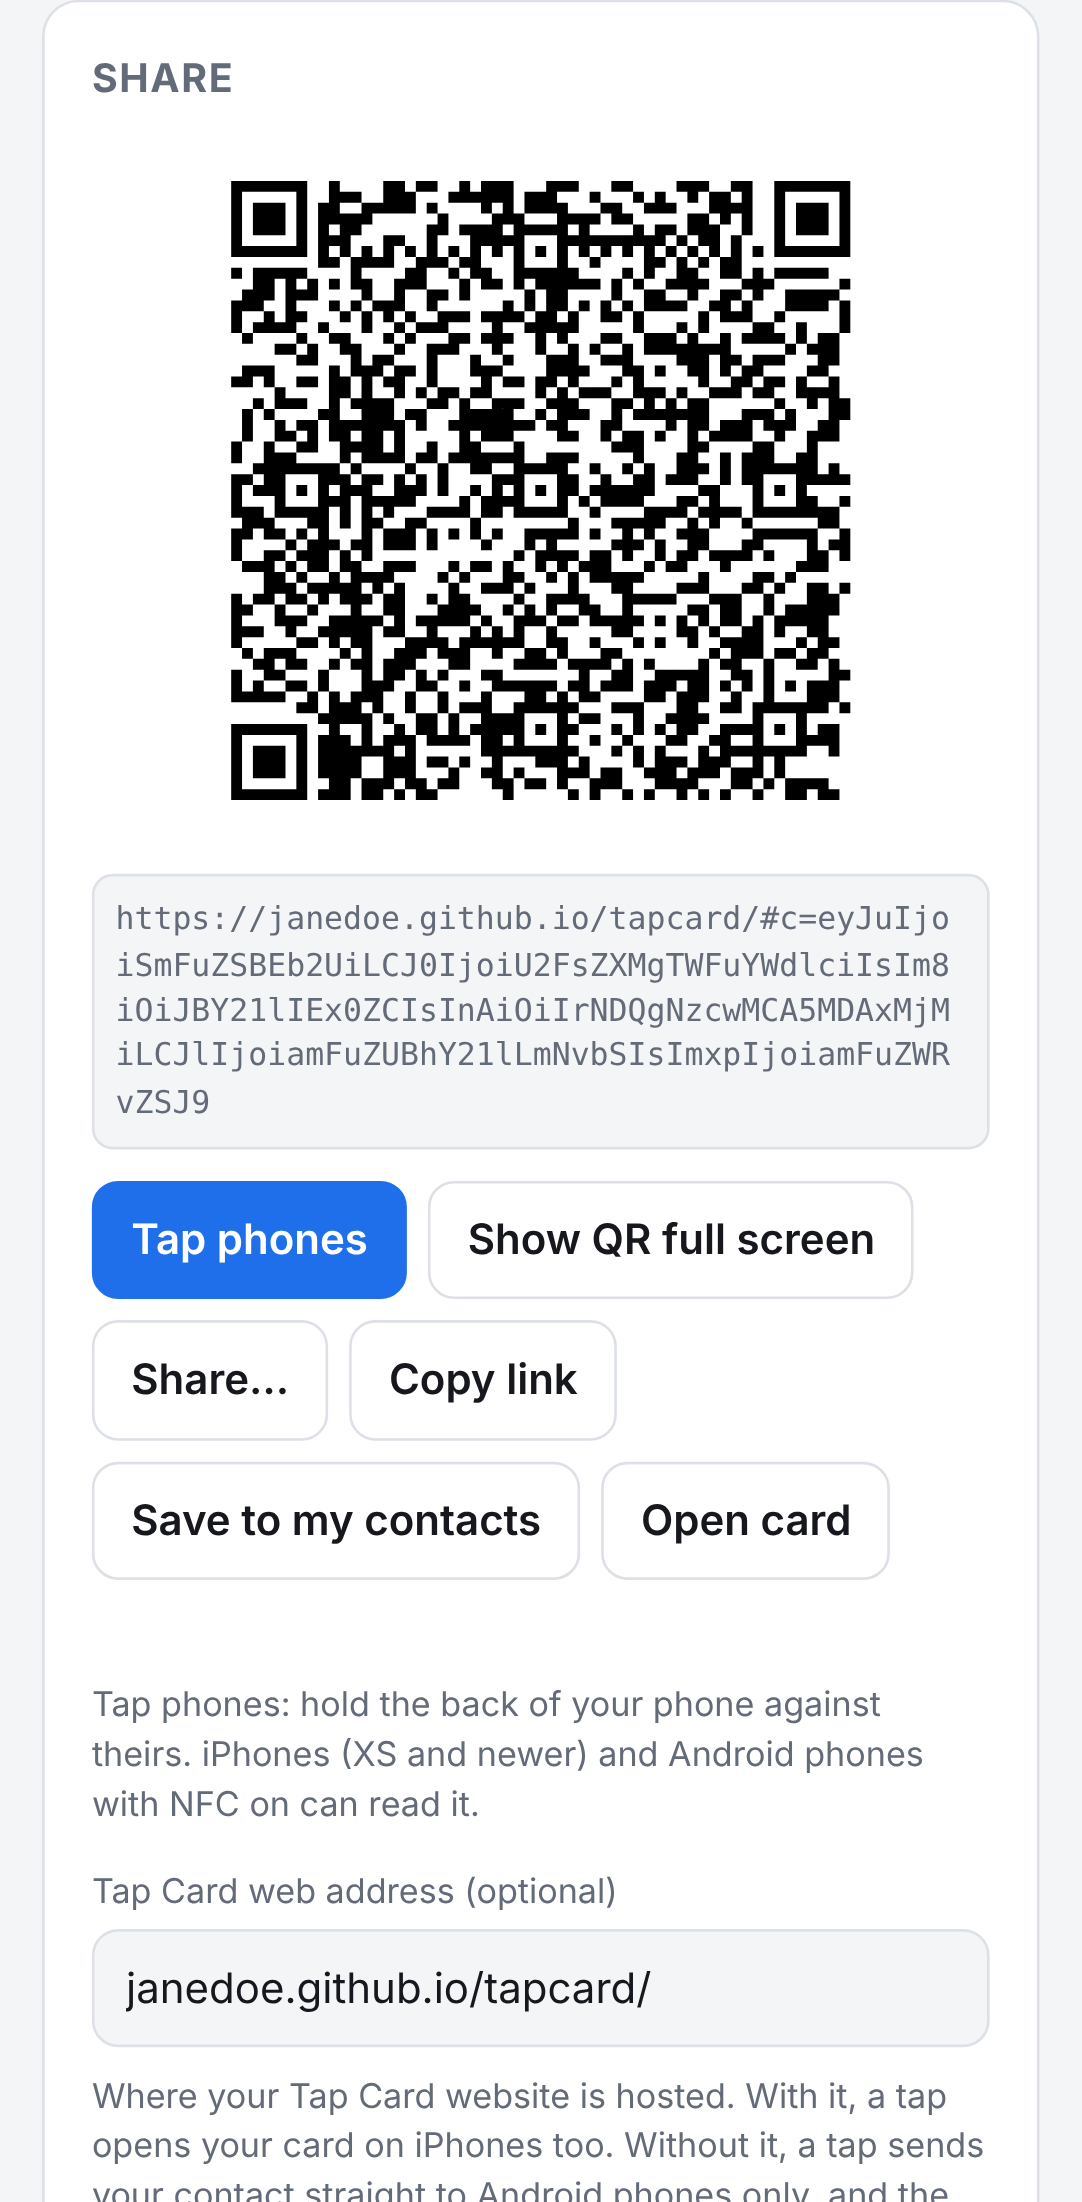
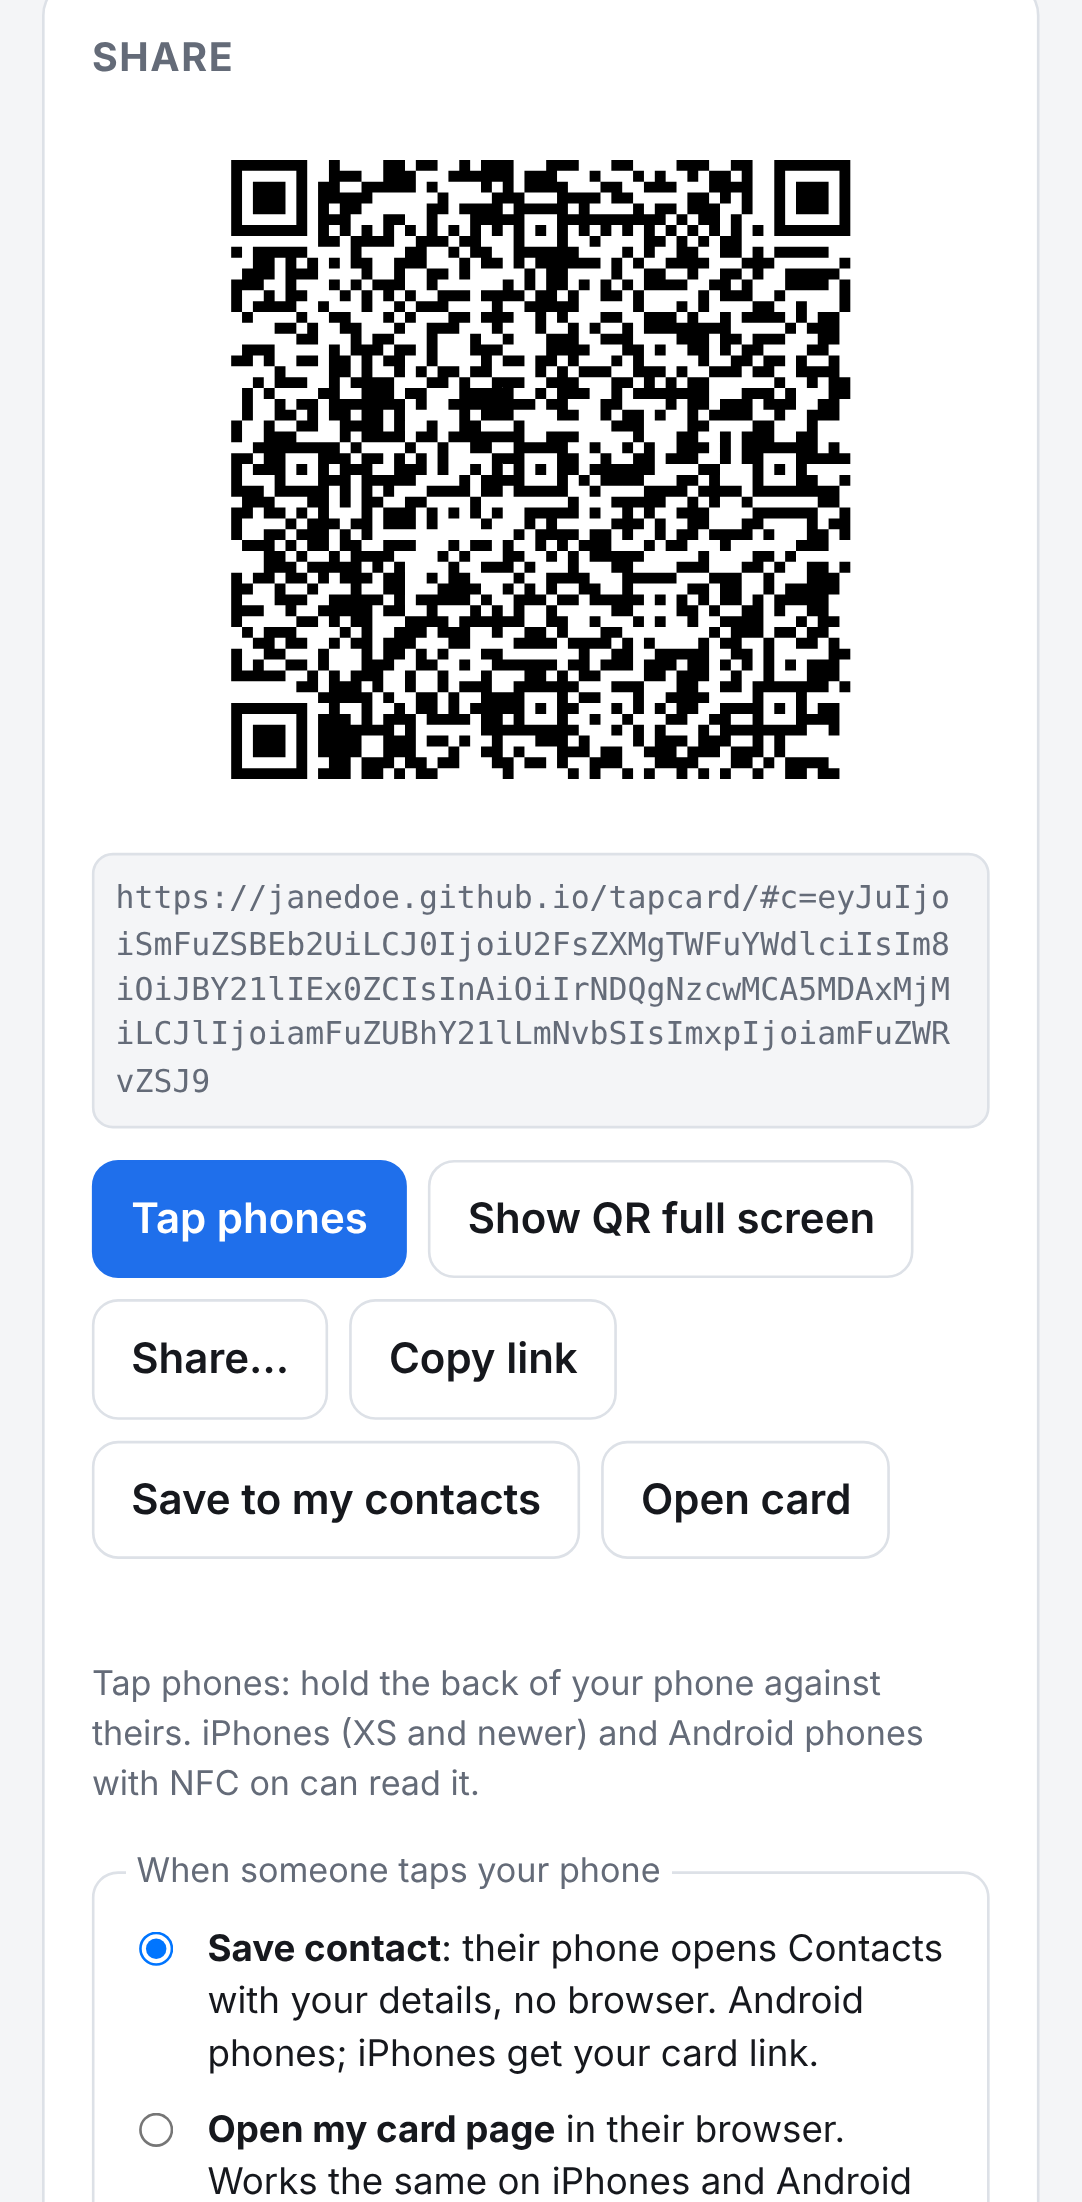
Tap sends the contact first, so Android shows "save contact" without a browser
- A tap now sends two NDEF records: the vCard first, then the card link.
  Android acts on the first record and opens Contacts; phones that only
  follow links can still use the second one. A switch in the app goes back
  to sending only the link.
- Replace the wrong Xiaomi "Autostart" hint: many Xiaomi phones can't send
  by tap because their own NFC chip answers instead of the app.
- Move the diagnostic counters behind "Details".
- Sign with a permanent key once the TAPCARD_KEY_PASSWORD secret is set, so
  updates install over the old version.

Claude-Session: https://claude.ai/code/session_01ChvCX1TJEbsDiLpY4wEDy7

diff --git a/web/index.html b/web/index.html
@@ -98,6 +98,12 @@
   @keyframes pulse { 50% { transform: scale(1.04); opacity: .8; } }
   @media (prefers-reduced-motion: reduce) { .show .tapart { animation: none; } }
   .show p { max-width: 34ch; }
+  .modes { border: 1px solid var(--line); border-radius: 10px; padding: 10px 12px 4px; margin: 14px 0 0; }
+  .modes legend { font-size: 13px; color: var(--muted); padding: 0 4px; }
+  .modes label { display: flex; gap: 10px; align-items: flex-start; font-size: 14px; color: var(--text); margin-bottom: 8px; }
+  .modes input { width: auto; margin-top: 3px; }
+  .show details { margin-top: 10px; font-size: 13px; color: #646b78; }
+  .show summary { cursor: pointer; }
   .show .ver { margin-top: 14px; font-size: 12px; }
   .show .checks { margin-top: 10px; font-size: 13px; }
   .show .tapstatus { margin-top: 18px; padding: 10px 14px; border-radius: 10px; background: #f4f5f7; color: #16181d; font-weight: 600; }
@@ -164,6 +170,11 @@
         </div>
         <div class="status" id="status" role="status"></div>
         <p class="note" id="nfcNote"></p>
+        <fieldset id="modeBox" class="modes" hidden>
+          <legend>When someone taps your phone</legend>
+          <label><input type="radio" name="tapmode" value="contact" checked> <span><b>Save contact</b>: their phone opens Contacts with your details, no browser. Android phones; iPhones get your card link.</span></label>
+          <label><input type="radio" name="tapmode" value="link"> <span><b>Open my card page</b> in their browser. Works the same on iPhones and Android phones.</span></label>
+        </fieldset>
         <div id="pubBox" hidden style="margin-top:14px">
           <label for="pub">Tap Card web address (optional)</label>
           <input id="pub" type="url" inputmode="url" placeholder="yourname.github.io/tapcard">
@@ -197,11 +208,8 @@
   <h3>Hold your phone back to back with theirs</h3>
   <p id="tapHint">Keep both screens on. Their phone shows your card in a second or two.</p>
   <p class="tapstatus" id="tapStatus" role="status"></p>
-  <p class="checks" id="tapChecks"></p>
-  <div id="autostartBox" hidden>
-    <p class="checks">Xiaomi phones: turn on <b>Autostart</b> for Tap Card, or taps can't reach it.</p>
-    <button type="button" id="autostartBtn">Open Autostart settings</button>
-  </div>
+  <p class="checks" id="xiaomiNote" hidden>Tapping not working? Many Xiaomi phones can't send by tap: their own NFC chip answers instead of Tap Card. They can still receive. To share from a Xiaomi, stick an NFC sticker on your case (use "Write to NFC tag" on the Tap Card website) or show your QR code.</p>
+  <details><summary>Details</summary><p class="checks" id="tapChecks"></p></details>
   <button type="button" id="tapClose">Done</button>
   <p class="ver" id="tapVer"></p>
 </div>
@@ -253,6 +261,8 @@
     }
     return location.protocol === "file:" ? null : location.href.split("#")[0];
   }
+  const MODE_KEY = "tapcard.tapMode";
+  function tapMode() { let m = "contact"; try { m = localStorage.getItem(MODE_KEY) || "contact"; } catch {} return m; }
   const linkFor = (p) => { const b = publicBase(); return b ? b + "#c=" + encode(p) : null; };
   // What the QR code holds: the card link, or the contact itself when there is no link.
   const qrText = (p) => linkFor(p) || vcard(clean(p));
@@ -358,7 +368,7 @@
     $("link").textContent = link || "No web address yet, so the QR code holds your contact details directly.";
     if (link) $("openBtn").href = link;
     $("openBtn").hidden = $("copyBtn").hidden = !link;
-    if (native) native.setCard(link || "", (p.n || p.o || p.p || p.e).trim() ? vcard(clean(p)) : "");
+    if (native) native.setCard(link || "", (p.n || p.o || p.p || p.e).trim() ? vcard(clean(p)) : "", tapMode());
 
     const q = qrcode(0, "M"); q.addData(qrText(p)); q.make();
     $("qr").innerHTML = q.createSvgTag({ cellSize: 4, margin: 2, scalable: true });
@@ -413,9 +423,11 @@
     }
     const p = read();
     if (!(p.n || p.o || p.p || p.e).trim()) { status("Add your name or phone number first.", false); return; }
-    $("tapHint").textContent = linkFor(p)
-      ? "Keep both screens on and unlocked. Their phone shows your card in a second or two. Works with iPhones and Android phones."
-      : "Keep both screens on and unlocked. Works with Android phones. To reach iPhones too, add your Tap Card web address under Share.";
+    $("tapHint").textContent = !linkFor(p)
+      ? "Keep both screens on and unlocked. Works with Android phones. To reach iPhones too, add your Tap Card web address under Share."
+      : tapMode() === "link"
+        ? "Keep both screens on and unlocked. Their phone opens your card in a second or two."
+        : "Keep both screens on and unlocked. Their phone shows your contact, ready to save.";
     $("tapView").hidden = false;
     native.enterTapMode();
     tapOpenedAt = Date.now();
@@ -439,24 +451,24 @@
     const mark = (v) => v === true ? "✓" : v === false ? "✗" : "?";
     $("tapChecks").textContent = `Checks: NFC on ${mark(st.nfcOn)} · taps go to Tap Card ${mark(st.routed)} · service started: ${st.serviceStarts ?? "?"} · commands received: ${st.commands ?? "?"}`;
     // Xiaomi blocks background starts unless Autostart is on, so the tag service never runs.
-    $("autostartBox").hidden = !(/xiaomi|redmi|poco/.test(st.maker || "") && !st.commands);
+    $("xiaomiNote").hidden = !(/xiaomi|redmi|poco/.test(st.maker || "") && !st.commands);
     if (!st.nfcOn) return say("NFC is off on this phone. Turn it on in Settings.", "warn");
     if (st.routed === false) return say("Another app on this phone answers NFC tag reads, so taps don't reach Tap Card.", "warn");
     if (st.kind === "none") return say("No card saved yet. Press Done and fill in your details.", "warn");
-    if (!tapped) return say(st.kind === "link"
-      ? "Ready: a tap sends the link to your card."
-      : "Ready: a tap sends your contact (Android phones only).");
+    if (!tapped) return say({
+      "link": "Ready: a tap opens your card page on their phone.",
+      "contact+link": "Ready: a tap shows your contact on their phone, ready to save.",
+    }[st.kind] || "Ready: a tap sends your contact (Android phones only).");
     switch (st.stage) {
-      case "MESSAGE_READ": return say(st.kind === "link"
-        ? "✓ Their phone read your card."
-        : "✓ Their phone read your contact. (iPhones ignore contacts: add your web address to reach them.)", "ok");
+      case "MESSAGE_READ": return say(st.kind === "contact"
+        ? "✓ Their phone read your contact. (iPhones ignore contacts: add your web address to reach them.)"
+        : "✓ Their phone read your card.", "ok");
       case "NDEF_SELECTED": return say("Their phone started reading but the phones moved apart. Hold them still for 2 seconds.", "warn");
       case "APP_SELECTED": return say("Their phone found yours but didn't read the card. Hold still for 2 seconds and try again.", "warn");
       case "NO_CARD": return say("Their phone connected, but no card was saved. Press Done and fill in your details.", "warn");
     }
   }
   $("tapClose").addEventListener("click", closeTap);
-  $("autostartBtn").addEventListener("click", () => native?.openAutostartSettings?.());
   // Android back button: close an open full-screen view instead of leaving the app.
   window.tapcardBack = () => {
     if (!$("tapView").hidden) { closeTap(); return true; }
@@ -468,6 +480,11 @@
     $("nfcBtn").hidden = $("qrBtn").hidden = true; // tag writing and file downloads are for the website
     $("vcfBtn").textContent = "Save to my contacts";
     $("pubBox").hidden = false;
+    $("modeBox").hidden = false;
+    for (const r of document.querySelectorAll('input[name="tapmode"]')) {
+      r.checked = r.value === tapMode();
+      r.addEventListener("change", () => { try { localStorage.setItem(MODE_KEY, r.value); } catch {} update(); });
+    }
     // Fill in this build's website the first time, so taps send a link that iPhones open too.
     let savedPub = null; try { savedPub = localStorage.getItem(PUB_KEY); } catch {}
     if (savedPub == null && native.defaultWebAddress) {

diff --git a/android/nfc-core/src/main/kotlin/app/tapcard/nfc/Ndef.kt b/android/nfc-core/src/main/kotlin/app/tapcard/nfc/Ndef.kt
@@ -20,32 +20,48 @@ object Ndef {
         "http://" to 0x03,
     )
 
-    /** A one-record message holding a link. Phones open it in the browser (iPhone shows a banner). */
-    fun uriMessage(uri: String): ByteArray {
+    /** One record of a message: its type name format, type and payload. */
+    class Record internal constructor(val tnf: Int, val type: ByteArray, val payload: ByteArray)
+
+    /** A link. Phones open it in the browser (iPhone shows a banner). */
+    fun uriRecord(uri: String): Record {
         val (prefix, code) = URI_PREFIXES.firstOrNull { uri.startsWith(it.first, ignoreCase = true) } ?: ("" to 0x00)
         val rest = uri.substring(prefix.length).toByteArray(Charsets.UTF_8)
-        val payload = byteArrayOf(code.toByte()) + rest
-        return record(TNF_WELL_KNOWN, "U".toByteArray(Charsets.US_ASCII), payload)
+        return Record(TNF_WELL_KNOWN, "U".toByteArray(Charsets.US_ASCII), byteArrayOf(code.toByte()) + rest)
     }
 
-    /** A one-record message holding a file of the given MIME type, e.g. a text/vcard contact. */
-    fun mimeMessage(mimeType: String, payload: ByteArray): ByteArray =
-        record(TNF_MIME, mimeType.toByteArray(Charsets.US_ASCII), payload)
+    /** A file of the given MIME type, e.g. a text/vcard contact that Android opens in Contacts. */
+    fun mimeRecord(mimeType: String, payload: ByteArray): Record =
+        Record(TNF_MIME, mimeType.toByteArray(Charsets.US_ASCII), payload)
 
-    private fun record(tnf: Int, type: ByteArray, payload: ByteArray): ByteArray {
-        require(type.size <= 255) { "NDEF type too long" }
-        val short = payload.size < 256
+    /** A message made of the given records, in order. Android acts on the first record. */
+    fun message(vararg records: Record): ByteArray {
+        require(records.isNotEmpty()) { "An NDEF message needs at least one record" }
         val out = java.io.ByteArrayOutputStream()
-        out.write(FLAG_MB or FLAG_ME or (if (short) FLAG_SR else 0) or tnf)
-        out.write(type.size)
-        if (short) {
-            out.write(payload.size)
-        } else {
-            val n = payload.size
-            out.write(n ushr 24 and 0xFF); out.write(n ushr 16 and 0xFF); out.write(n ushr 8 and 0xFF); out.write(n and 0xFF)
+        records.forEachIndexed { i, r ->
+            require(r.type.size <= 255) { "NDEF type too long" }
+            val short = r.payload.size < 256
+            var header = r.tnf
+            if (i == 0) header = header or FLAG_MB
+            if (i == records.lastIndex) header = header or FLAG_ME
+            if (short) header = header or FLAG_SR
+            out.write(header)
+            out.write(r.type.size)
+            if (short) {
+                out.write(r.payload.size)
+            } else {
+                val n = r.payload.size
+                out.write(n ushr 24 and 0xFF); out.write(n ushr 16 and 0xFF); out.write(n ushr 8 and 0xFF); out.write(n and 0xFF)
+            }
+            out.write(r.type)
+            out.write(r.payload)
         }
-        out.write(type)
-        out.write(payload)
         return out.toByteArray()
     }
+
+    /** A one-record message holding a link. */
+    fun uriMessage(uri: String): ByteArray = message(uriRecord(uri))
+
+    /** A one-record message holding a file of the given MIME type. */
+    fun mimeMessage(mimeType: String, payload: ByteArray): ByteArray = message(mimeRecord(mimeType, payload))
 }

diff --git a/android/app/src/main/java/app/tapcard/MainActivity.kt b/android/app/src/main/java/app/tapcard/MainActivity.kt
@@ -149,17 +149,21 @@ class MainActivity : Activity() {
         }
 
         /**
-         * What a tap sends. With a web address, a link to your card page (works on iPhone and Android).
-         * Without one, the contact itself as a vCard (Android phones import it; iPhones ignore it).
+         * What a tap sends.
+         *  mode "contact": your contact first, so Android phones open Contacts with "save" ready and no
+         *                  browser; then the link to your card page, for phones that only follow links.
+         *  mode "link":    only the link to your card page (opens in the browser; works on iPhones).
+         * Without a web address, only the contact.
          */
         @JavascriptInterface
-        fun setCard(url: String, vcard: String) {
-            val message = when {
-                url.isNotBlank() -> Ndef.uriMessage(url)
-                vcard.isNotBlank() -> Ndef.mimeMessage("text/vcard", vcard.toByteArray(Charsets.UTF_8))
-                else -> null
+        fun setCard(url: String, vcard: String, mode: String) {
+            val contact = vcard.takeIf { it.isNotBlank() }?.let { Ndef.mimeRecord("text/vcard", it.toByteArray(Charsets.UTF_8)) }
+            val link = url.takeIf { it.isNotBlank() }?.let { Ndef.uriRecord(it) }
+            val records = when {
+                mode == "link" && link != null -> listOf(link)
+                else -> listOfNotNull(contact, link)
             }
-            CardStore.update(this@MainActivity, message)
+            CardStore.update(this@MainActivity, if (records.isEmpty()) null else Ndef.message(*records.toTypedArray()))
         }
 
         /** What a tap sends right now and what happened on the last tap, as JSON for the page. */
@@ -168,7 +172,8 @@ class MainActivity : Activity() {
             val msg = CardStore.message(this@MainActivity)
             val kind = when {
                 msg == null -> "none"
-                msg.size > 3 && (msg[0].toInt() and 0x07) == 0x01 && msg[3] == 'U'.code.toByte() -> "link"
+                (msg[0].toInt() and 0x07) == 0x01 -> "link"                 // first record is the link
+                (msg[0].toInt() and 0x40) == 0 -> "contact+link"            // contact, then more records
                 else -> "contact"
             }
             return JSONObject()
@@ -191,22 +196,6 @@ class MainActivity : Activity() {
                     }
                 }
                 .toString()
-        }
-
-        /**
-         * Xiaomi/Redmi/Poco block apps from being started in the background unless "Autostart" is on,
-         * which stops Android's NFC system from starting CardHceService. Opens that setting.
-         */
-        @JavascriptInterface
-        fun openAutostartSettings() = runOnUiThread {
-            val candidates = listOf(
-                Intent().setComponent(ComponentName("com.miui.securitycenter", "com.miui.permcenter.autostart.AutoStartManagementActivity")),
-                Intent(Settings.ACTION_APPLICATION_DETAILS_SETTINGS, Uri.parse("package:$packageName")),
-            )
-            for (intent in candidates) {
-                try { startActivity(intent); return@runOnUiThread } catch (e: Exception) { /* try the next one */ }
-            }
-            toast("Open Settings → Apps → Tap Card and turn on Autostart")
         }
 
         @JavascriptInterface

diff --git a/android/nfc-core/src/test/kotlin/app/tapcard/nfc/Type4TagTest.kt b/android/nfc-core/src/test/kotlin/app/tapcard/nfc/Type4TagTest.kt
@@ -88,6 +88,22 @@ class Type4TagTest {
         assertContentEquals(msg, readLikeAPhone(Type4Tag(msg)))
     }
 
+    @Test fun contactThenLinkMessage() {
+        // Matches ndeflib: message_encoder([Record('text/vcard', '', b'BEGIN:VCARD'), UriRecord('https://a.b/')])
+        val msg = Ndef.message(Ndef.mimeRecord("text/vcard", "BEGIN:VCARD".toByteArray()), Ndef.uriRecord("https://a.b/"))
[1 lines of base64/hex data omitted]
+        assertContentEquals(msg, readLikeAPhone(Type4Tag(msg)))
+    }
+
+    @Test fun longContactThenLink() {
+        val vcard = ByteArray(400) { 'v'.code.toByte() }
+        val msg = Ndef.message(Ndef.mimeRecord("text/vcard", vcard), Ndef.uriRecord("https://a.b/"))
+        assertEquals(0x82, msg[0].toInt() and 0xFF)              // MB, no ME, no SR, MIME
+        val second = 6 + 10 + 400
+        assertEquals(0x51, msg[second].toInt() and 0xFF)         // ME|SR|well-known
+        assertContentEquals(msg, readLikeAPhone(Type4Tag(msg)))
+    }
+
     @Test fun selectWithoutLeAndWithFciAlsoWork() {
         val tag = Type4Tag(Ndef.uriMessage("https://a.b/"))
         assertContentEquals(Type4Tag.SW_OK, tag.process(hex("00 A4 04 00 07 D2760000850101")))
